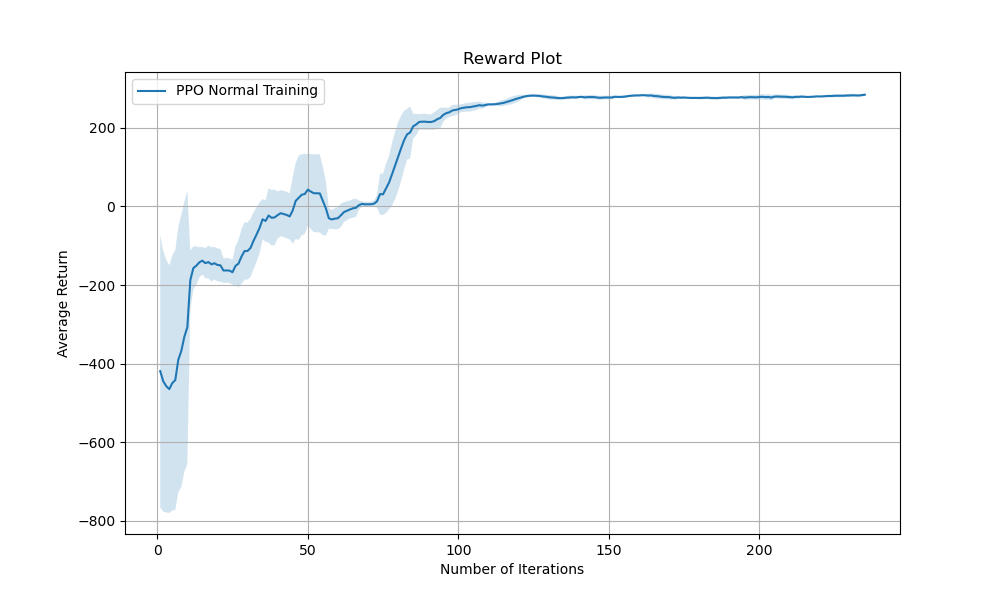
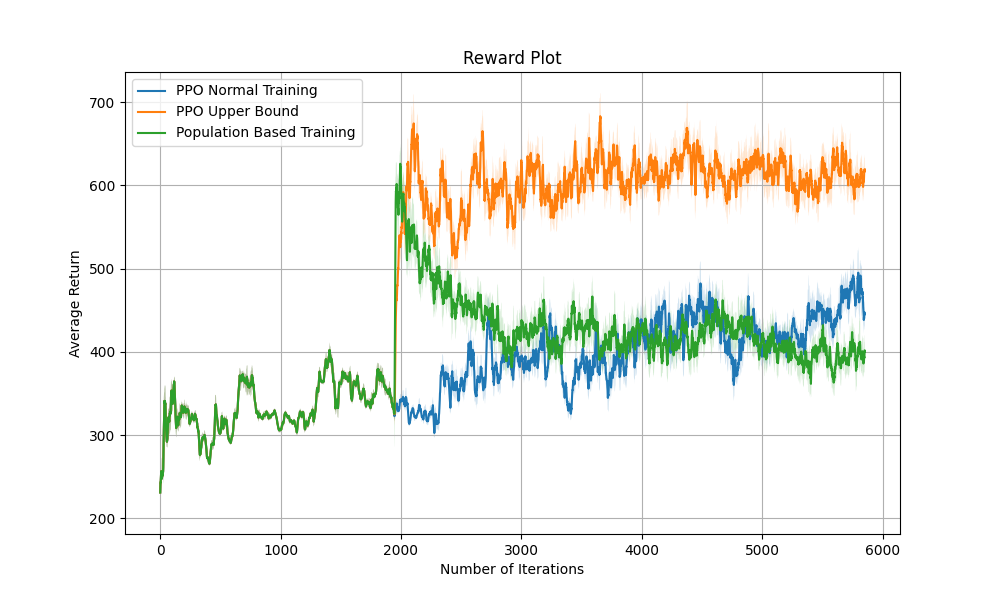
update

diff --git a/plots/combine_seeds.py b/plots/combine_seeds.py
@@ -54,8 +54,8 @@ seed_list = [0, 1, 2, 3]
 
 plot_list = [
     # ["PPO_FQE", "PPO FQE with 60 iterations & every other point; gamma=0.3"],
-    # ["PPO_normal_training", "PPO Normal Training"],
-    # ["PPO_upper_bound", "PPO Upper Bound"],
+    ["PPO_normal_training", "PPO Normal Training"],
+    ["PPO_upper_bound", "PPO Upper Bound"],
     # ["TRPO_normal_training", "TRPO Normal Training"],
     # ["TRPO_upper_bound", "TRPO Upper Bound"],
     # ["PPO_Ablation1", "PPO_Ablation1"],
@@ -71,7 +71,8 @@ plot_list = [
     # ["PPO_FQE", "PPO FQE"],
     # ["PPO_empty_space_ls", "PPO FQE"],
     # ["PPO_baseline", "PPO Baseline"],
-    ["PPO_Rebuttal_1", "PPO Rebuttal 1"],
+    # ["PPO_Rebuttal_1", "PPO Rebuttal 1"],
+    ["PPO_Rebuttal_2", "Population Based Training"],
 ]
 
 plot_metrics = []
